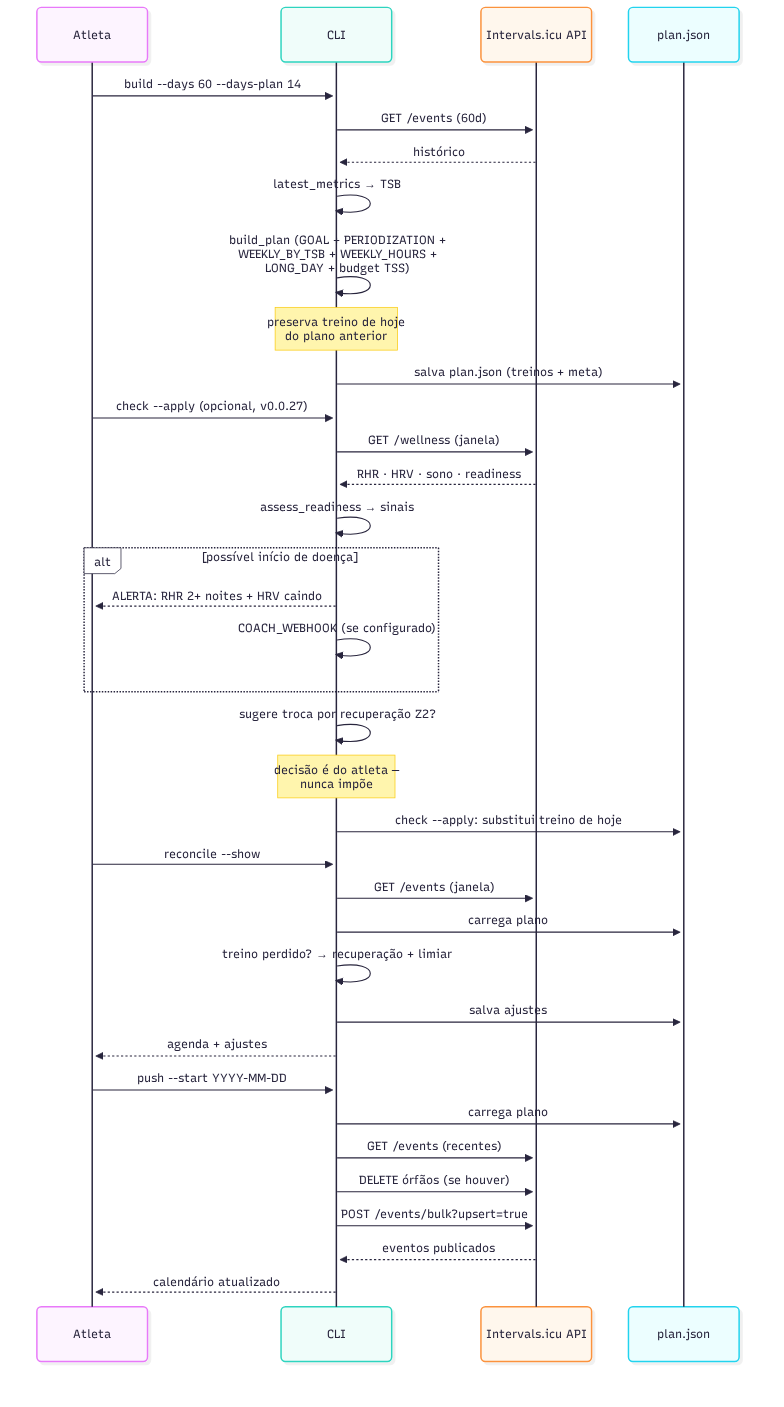
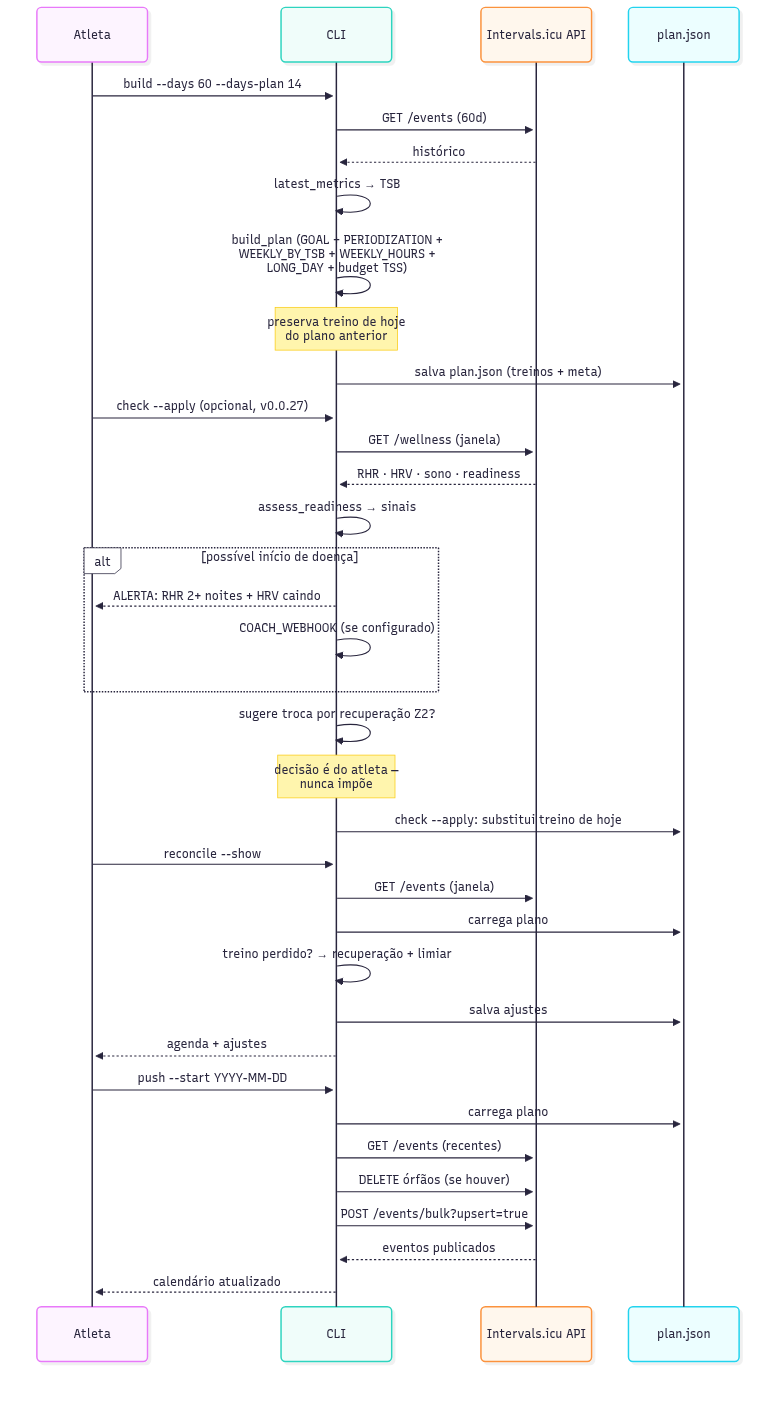
docs(diagramas): diagramas alinhados ao codigo atual (v0.0.29, 374 testes)
classes.mmd refletia o modelo antigo do recovery (time_to_target/safe_ramp,
inexistentes) e o SummaryAgg anterior ao resumo real; atualiza para as
assinaturas de hoje: fetch_full_history/pmc_series_anchored/state/
calibrated_state/estimate_return/ramp_schedule, WorkoutParams completo
(cadence, potencias/durs de warmup-cooldown), SummaryAgg (sessions/time_s/
distance_m/elevation_m/avg_power/np/avg_hr), export_pdf e calculate_tss.
sequencia-timer: bulk-delete e PUT (nao DELETE). componentes: recovery agora
"PMC real ancorado + TSB real + prazo + rampa calibrada". DIAGRAMAS.md: versao
e contagem de testes atualizadas (v0.0.29, 374 passed / 3 skipped). PNGs
regenerados com mermaid-cli e espelhados no vault.

diff --git a/docs/DIAGRAMAS.md b/docs/DIAGRAMAS.md
@@ -1,6 +1,6 @@
 # Diagramas UML — Hermes Coach
 
-Diagramas em [Mermaid](https://mermaid.js.org) do sistema real (v0.0.28).
+Diagramas em [Mermaid](https://mermaid.js.org) do sistema real (v0.0.29).
 Renderizam nativo no Obsidian (bloco ` ```mermaid `) e no GitHub. Os `.mmd`
 fonte vivem em `docs/diagramas/` (geram os `.png` via mermaid-cli).
 
@@ -14,7 +14,7 @@ Legenda rápida dos módulos:
 | `src/impulse_response.py` | Motor Banister local (CTL/ATL/TSB) + séries diárias de TSS |
 | `src/intervals_client.py` | Cliente da API do Intervals.icu (events, wellness, activities, streams, sport-settings) com retry/backoff |
 | `src/ftp_scan.py` / `ftp_estimation.py` | Análise de treinos fora do plano → proposta de FTP (20min × 0,95) |
-| `src/recovery.py` | Retorno a forma: PMC real (EWMA 42/7) + prazo + rampa segura com deload |
+| `src/recovery.py` | Retorno a forma: PMC real ancorado (EWMA 42/7) + TSB real + prazo + rampa calibrada com deload (`estimate_return`/`ramp_schedule`/`calibrated_state`) |
 | `src/readiness.py` | Prontidão do dia (`check`): sinais de wellness (RHR/HRV/sono) → sugestão de troca por recuperação + alerta de início de doença (+ `COACH_WEBHOOK`) |
 | `src/periodization.py` | Explicação dos 5 modelos de periodização (`periodization`): o que significam para o atleta + sugestão por GOAL/TSB (top/evitar) |
 | `src/activity_summary.py` | Resumo dos treinos feitos por dia/semana/mês (`summary`) |
@@ -40,7 +40,7 @@ flowchart LR
         IR["impulse_response.py<br/>CTL/ATL/TSB local"]
         FTPS["ftp_scan.py + ftp_estimation.py<br/>proposta de FTP"]
         AS["activity_summary.py<br/>resumo por período · pareamento"]
-        REC["recovery.py<br/>PMC real + prazo de retorno + rampa"]
+        REC["recovery.py<br/>PMC real ancorado + TSB real + prazo + rampa calibrada"]
         RD["readiness.py<br/>prontidão: sinais wellness · sugestão de troca · alerta doença"]
         PER["periodization.py<br/>explica modelos · sugere por GOAL/TSB"]
     end
@@ -116,7 +116,7 @@ sequenceDiagram
         S->>C: push --start hoje
         C->>I: GET /events (recentes)
         C->>C: calcula órfãos (hermes-plan*)
-        C->>I: DELETE /events/bulk-delete (órfãos)
+        C->>I: PUT /events/bulk-delete (órfãos)
         C->>I: POST /events/bulk?upsert=true (treinos)
         I-->>C: 200 OK
         C-->>S: calendário atualizado
@@ -188,12 +188,20 @@ classDiagram
     class WorkoutParams {
         +str focus
         +int warmup_sec = 600
+        +int warmup_cadence = 90
+        +float warmup_power_low = 0.45
+        +float warmup_power_high = 0.75
         +int repeats
         +int on_sec
         +int off_sec
         +float on_power
         +float off_power
+        +int cadence = 90
+        +int cadence_rest = 85
         +int cooldown_sec = 600
+        +int cooldown_cadence = 85
+        +float cooldown_power_low = 0.70
+        +float cooldown_power_high = 0.45
     }
     class PlannedWorkout {
         +str day
@@ -233,10 +241,15 @@ classDiagram
         +ride_settings(settings)
     }
     class Recovery {
+        +fetch_full_history(client, ...)
         +actual_daily_load(events)
         +pmc_series(daily)
-        +time_to_target(ctl_now, target, ramp, ...)
-        +safe_ramp(target_ctl, weeks, ...)
+        +pmc_series_anchored(real_by_day, start, end)
+        +state(rows, window_days)
+        +calibrated_state(st, weekly_now)
+        +weekly_volume(daily, days)
+        +estimate_return(current_ctl, current_atl, target_ctl, weekly_now, ...)
+        +ramp_schedule(target_ctl, weekly_now, ramp_pts, ...)
     }
     class Readiness {
         +dict signals
@@ -255,17 +268,19 @@ classDiagram
         +explain_current(goal, periodization, tsb) -> str
     }
     class SummaryAgg {
-        +int workouts
+        +int sessions
+        +float time_s
+        +float distance_m
+        +float elevation_m
         +float load
-        +str time
-        +float distance
-        +float elevation
-        +dict power
+        +float avg_power
+        +float np
         +int avg_hr
     }
     class ReportRenderer {
         +render_summary_html(title, start, end, agg, rows,<br/>pmc_rows, weeks, theme)
         +write(path, html)
+        +export_pdf(path, html)
     }
     class ThemeKit {
         +str DEFAULT_THEME
@@ -285,7 +300,7 @@ classDiagram
     SummaryAgg <-- IntervalsClient : atividades pareadas
     ReportRenderer --> ThemeKit : 22 temas (CSS vars)
     ReportRenderer --> SummaryAgg : cards + tabela
-    ReportRenderer --> Recovery : pmc_series (PMC 90d)
+    ReportRenderer --> Recovery : pmc_rows (PMC 90d)
 ```
 
 ---
@@ -345,7 +360,7 @@ stateDiagram-v2
 
 ## Notas
 
-- Diagramas gerados a partir do código real (`src/*.py`, v0.0.28, 354 testes OK) —
+- Diagramas gerados a partir do código real (`src/*.py`, v0.0.29, 374 testes OK) —
   não são genéricos. Se o código mudar, atualize aqui junto.
 - Fontes em `docs/diagramas/*.mmd`; os `.png` são regenerados com mermaid-cli.
 - O `.zwo` **não é gerado localmente** (o Intervals monta no app a partir do
